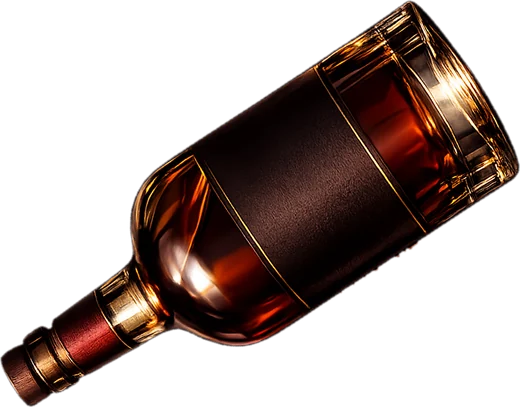
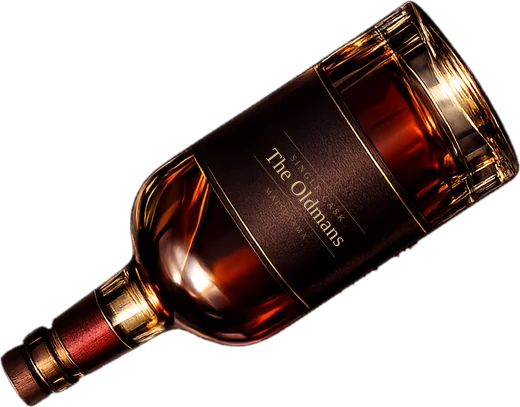
瓶のラベル・波紋の位置・下タブのずれ・画像の拡大表示
## 下タブが本文の途中に現れる（iOS）

ホーム画面アプリで上端を越えて引っ張ると、その間だけ position: fixed の要素が
画面の途中に置き去りにされる。overscroll-behavior-y: none で引っ張り戻し
そのものを止めた。

## 瓶のラベル

「The Oldmans」を帯に焼き込んだ。位置は目分量ではなく、つや消しの暗い面を
検出して、帯の中で文字が収まる範囲を測ってから決めている。

向きは「注いでいる姿勢で読める」側に取った。立ち姿に合わせると、画面に出て
いる時間のほとんど（注いでいるあいだ）で逆さまになる。立ち姿は入退場の一瞬で、
しかも瓶は画面の上へ外れていることが多い。

## 波紋が空中に出ていた

筋の先端に付けていたので、まだ液面がそこまで来ていない段階では宙に浮いて
見えた。液体の上端に移し、液面と一緒に上がるようにした。

## 筋が液面まで届いていなかった

「満ちたときの液面」で止めていたため、上昇中は筋の先と液面のあいだが空いた。
グラスの底まで伸ばした。液体のほうが後に描かれるので、液面が上がるにつれて
筋は下から隠れる＝液に突き刺さって見える。

## リストの画像

タップで拡大表示できるようにした。サムネイルは56pxしかなく、商品ページの
スクリーンショットだと何も読めなかった。どこを押しても閉じる。

Claude-Session: https://claude.ai/code/session_01SNCrdjiGb47CRQMJ1mNAQJ

Changed region(s): [[0.4923, 0.3538, 0.6769, 0.6192], [0.5538, 0.5602, 0.5846, 0.5897]]

diff --git a/the-oldman/src/app/(app)/wishlist/WishlistClient.tsx b/the-oldman/src/app/(app)/wishlist/WishlistClient.tsx
@@ -1,7 +1,8 @@
 "use client";
 
 import { useRouter } from "next/navigation";
-import { useRef, useState } from "react";
+import { useEffect, useRef, useState } from "react";
+import { createPortal } from "react-dom";
 import { createWishlistItem, deleteWishlistItem, setWishlistBought } from "./actions";
 import { extOf, shrinkImage } from "@/lib/image";
 import { yen } from "@/lib/money";
@@ -33,6 +34,8 @@ export default function WishlistClient({
   const [stage, setStage] = useState<string | null>(null);
   const [error, setError] = useState<string | null>(null);
   const [preview, setPreview] = useState<string | null>(null);
+  /** タップで開いた拡大表示。サムネイルは56pxしかなく、中身が読めないため。 */
+  const [zoom, setZoom] = useState<WishlistItemView | null>(null);
 
   const wanted = items.filter((i) => !i.bought_at);
   const bought = items.filter((i) => i.bought_at);
@@ -214,8 +217,14 @@ export default function WishlistClient({
           {[...wanted, ...bought].map((i) => (
             <li key={i.id} className={`wish__item${i.bought_at ? " is-done" : ""}`}>
               {i.image_url ? (
-                /* eslint-disable-next-line @next/next/no-img-element */
-                <img src={i.image_url} alt="" className="wish__thumb" loading="lazy" />
+                <button
+                  className="wish__zoombtn"
+                  onClick={() => setZoom(i)}
+                  aria-label={`${i.title} の画像を大きく見る`}
+                >
+                  {/* eslint-disable-next-line @next/next/no-img-element */}
+                  <img src={i.image_url} alt="" className="wish__thumb" loading="lazy" />
+                </button>
               ) : (
                 <span className="wish__thumb is-empty" aria-hidden />
               )}
@@ -250,6 +259,47 @@ export default function WishlistClient({
           ))}
         </ul>
       )}
+
+      {zoom?.image_url ? (
+        <Lightbox item={zoom} onClose={() => setZoom(null)} />
+      ) : null}
     </>
+  );
+}
+
+/**
+ * 画像の拡大表示。
+ *
+ * サムネイルは56pxしかなく、商品ページのスクリーンショットだと何も読めない。
+ * どこを押しても閉じる — 見るためだけの一枚に、閉じ方を考えさせない。
+ */
+function Lightbox({ item, onClose }: { item: WishlistItemView; onClose: () => void }) {
+  const [mounted, setMounted] = useState(false);
+  useEffect(() => setMounted(true), []);
+
+  // 端末の戻る操作と Esc で閉じられるようにする
+  useEffect(() => {
+    const onKey = (e: KeyboardEvent) => {
+      if (e.key === "Escape") onClose();
+    };
+    window.addEventListener("keydown", onKey);
+    return () => window.removeEventListener("keydown", onKey);
+  }, [onClose]);
+
+  if (!mounted) return null;
+
+  return createPortal(
+    <div className="lightbox" role="dialog" aria-modal="true" onClick={onClose}>
+      {/* eslint-disable-next-line @next/next/no-img-element */}
+      <img src={item.image_url ?? ""} alt={item.title} className="lightbox__img" />
+      <p className="lightbox__cap micro">
+        {item.title}
+        {item.amount_yen ? ` · ${yen(item.amount_yen)}` : ""}
+      </p>
+      <button className="btn btn-sm lightbox__close" onClick={onClose}>
+        閉じる
+      </button>
+    </div>,
+    document.body,
   );
 }

diff --git a/the-oldman/src/app/globals.css b/the-oldman/src/app/globals.css
@@ -70,10 +70,18 @@
 html {
   background: var(--ink);
   -webkit-text-size-adjust: 100%;
+  /*
+   * 引っ張り戻し（ラバーバンド）を止める。
+   * iOS のホーム画面アプリで上端を越えて引っ張ると、その間だけ
+   * position: fixed の要素が画面の途中に置き去りにされる。
+   * 下タブが本文の真ん中に現れるのはこれ。
+   */
+  overscroll-behavior-y: none;
 }
 
 body {
   margin: 0;
+  overscroll-behavior-y: none;
   background: var(--ink);
   color: var(--paper);
   font-family: var(--font-sans);
@@ -1706,19 +1714,24 @@ textarea.field {
   }
 }
 
-/* 着水の波紋。筋の先で静かに広がる。 */
-.whisky__pour::after {
-  content: "";
+/*
+ * 着水の波紋。液体の上端に置いてあるので、液面が上がれば一緒に上がる。
+ * 筋の先端に置いていたときは、まだ空のうちから空中で波紋が広がっていた。
+ *
+ * 注いでいるあいだだけ出す。回数を決めて止めるので、注ぎ終われば消える。
+ */
+.whisky__ripple {
   position: absolute;
+  top: -4px;
   left: 50%;
-  bottom: -3px;
   width: 34px;
   height: 10px;
   margin-left: -17px;
   border-radius: 50%;
   border: 1px solid rgb(247 222 172 / 0.7);
   border-top-color: rgb(247 222 172 / 0.2);
-  animation: wg-splash 820ms ease-out infinite;
+  opacity: 0;
+  animation: wg-splash 820ms ease-out 1560ms 3 forwards;
 }
 
 @keyframes wg-splash {
@@ -1764,7 +1777,7 @@ textarea.field {
     transition: none;
   }
 
-  .whisky__pour::after {
+  .whisky__ripple {
     animation: none;
     opacity: 0;
   }
@@ -2882,6 +2895,15 @@ tr.is-off {
   text-decoration: line-through;
 }
 
+/* サムネイルは押せる。押すと拡大表示が開く。 */
+.wish__zoombtn {
+  padding: 0;
+  border: 0;
+  background: none;
+  line-height: 0;
+  cursor: zoom-in;
+}
+
 .wish__thumb {
   width: 3.5rem;
   height: 3.5rem;
@@ -3055,4 +3077,33 @@ tr.is-off {
 
 .roster__row.is-off {
   opacity: 0.4;
+}
+
+/* ── 画像の拡大表示 ─────────────────────────────────────────────────── */
+
+.lightbox {
+  position: fixed;
+  inset: 0;
+  z-index: 110;
+  display: flex;
+  flex-direction: column;
+  align-items: center;
+  justify-content: center;
+  gap: 0.875rem;
+  padding: 1.25rem;
+  background: rgb(12 13 15 / 0.94);
+  cursor: zoom-out;
+}
+
+.lightbox__img {
+  max-width: 100%;
+  max-height: 72dvh;
+  object-fit: contain;
+  border-radius: var(--radius-edge);
+  border-top: 1px solid var(--brass-hairline);
+}
+
+.lightbox__cap {
+  color: var(--paper-dim);
+  text-align: center;
 }

diff --git a/the-oldman/src/components/WhiskyGauge.tsx b/the-oldman/src/components/WhiskyGauge.tsx
@@ -50,13 +50,14 @@ export default function WhiskyGauge({ saved, target }: { saved: number; target: 
   const clip = `polygon(0% 0%, 100% 0%, ${TAPER.right * 100}% 100%, ${TAPER.left * 100}% 100%)`;
 
   /*
-   * 筋が落ちる先＝満ちたときの液面の高さ（グラス画像に対する割合）。
-   * 満杯に近いと筋がごく短くなって注いでいるように見えないので、
-   * 最低限の長さは残す。
+   * 筋はグラスの底まで伸ばしておく。液体は筋より後に描かれるので、
+   * 液面が上がるにつれて筋の下の方から順に隠れていく＝液に突き刺さって見える。
+   *
+   * 「満ちたときの液面」で筋を止めると、上昇中はまだ液面がそこまで来ておらず、
+   * 筋の先と液面のあいだに隙間が空く。
    */
-  const surfaceY = (CAVITY.top + (1 - ratio) * cavityH) * 100;
   const POUR_TOP = 3;
-  const pourH = Math.max(26, surfaceY - POUR_TOP);
+  const pourH = CAVITY.bottom * 100 - POUR_TOP;
 
   return (
     <section className={`whisky${reached ? " is-reached" : ""}`} aria-label="今月の積立">
@@ -104,6 +105,11 @@ export default function WhiskyGauge({ saved, target }: { saved: number; target: 
             <img src="/images/ice.webp" alt="" className="whisky__ice" aria-hidden />
             <div className="whisky__liquid" style={{ height: `${fill * 100}%` }}>
               <span className="whisky__surface" aria-hidden />
+              {/*
+               * 着水の波紋。液体の上端に置いてあるので、液面が上がれば一緒に上がる。
+               * 筋の先端に置くと、まだ空のうちから空中で波紋が広がってしまう。
+               */}
+              <span className="whisky__ripple" aria-hidden />
             </div>
           </div>
         </div>

diff --git a/the-oldman/ISSUES.md b/the-oldman/ISSUES.md
@@ -344,3 +344,21 @@ body 直下へ出して解決。
   傾ける区間を21%（約1.1秒）取った。筋の出入り・液面・氷の時刻も同じ比率で送った。
 - 軸を胴に移したことで、立てたときの持ち上げ量が過剰になった（-128% は軸が
   注ぎ口だった頃、その場で立てると体が落ちてくるぶんの補正だった）。-46% に詰めた。
+
+### 2026-08-06（第11回）
+
+- **下タブが本文の途中に現れる（iOS）。** ホーム画面アプリで上端を越えて引っ張ると、
+  その間だけ `position: fixed` の要素が画面の途中に置き去りにされる。
+  `overscroll-behavior-y: none` で引っ張り戻しそのものを止めた。
+- **瓶にラベルを焼き込んだ。** 位置は目分量ではなく、つや消しの暗い面を検出して
+  帯の中で文字が収まる範囲を測ってから決めた（`SIDE` の符号を一度取り違えて
+  右へはみ出したので、上向きに回した絵で確認しながら詰めた）。
+  向きは「注いでいる姿勢で読める」側に取った。立ち姿に合わせると、画面に出ている
+  時間のほとんど（注いでいるあいだ）で逆さまになるため。
+- **波紋が空中に出ていた。** 筋の先端に付けていたので、まだ液面がそこまで
+  来ていない段階では宙に浮いて見えた。液体の上端に移し、液面と一緒に上がるようにした。
+- **筋が液面まで届いていなかった。** 「満ちたときの液面」で止めていたため、上昇中は
+  筋の先と液面のあいだが空いた。グラスの底まで伸ばし、液体のほうが後に描かれるので
+  液面が上がるにつれて下から隠れる＝液に突き刺さって見える。
+- リストの添付画像をタップで拡大表示できるようにした。サムネイルは56pxしかなく、
+  商品ページのスクリーンショットだと何も読めなかった。
